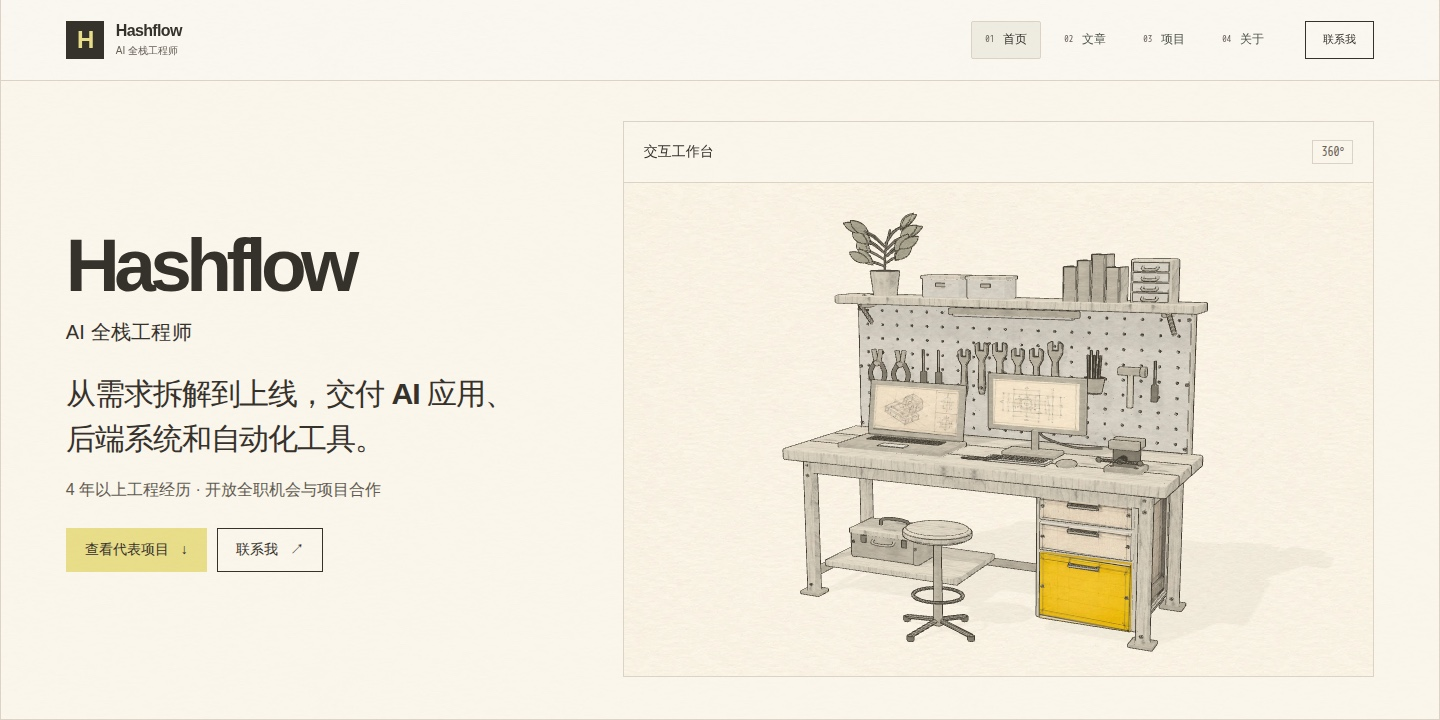
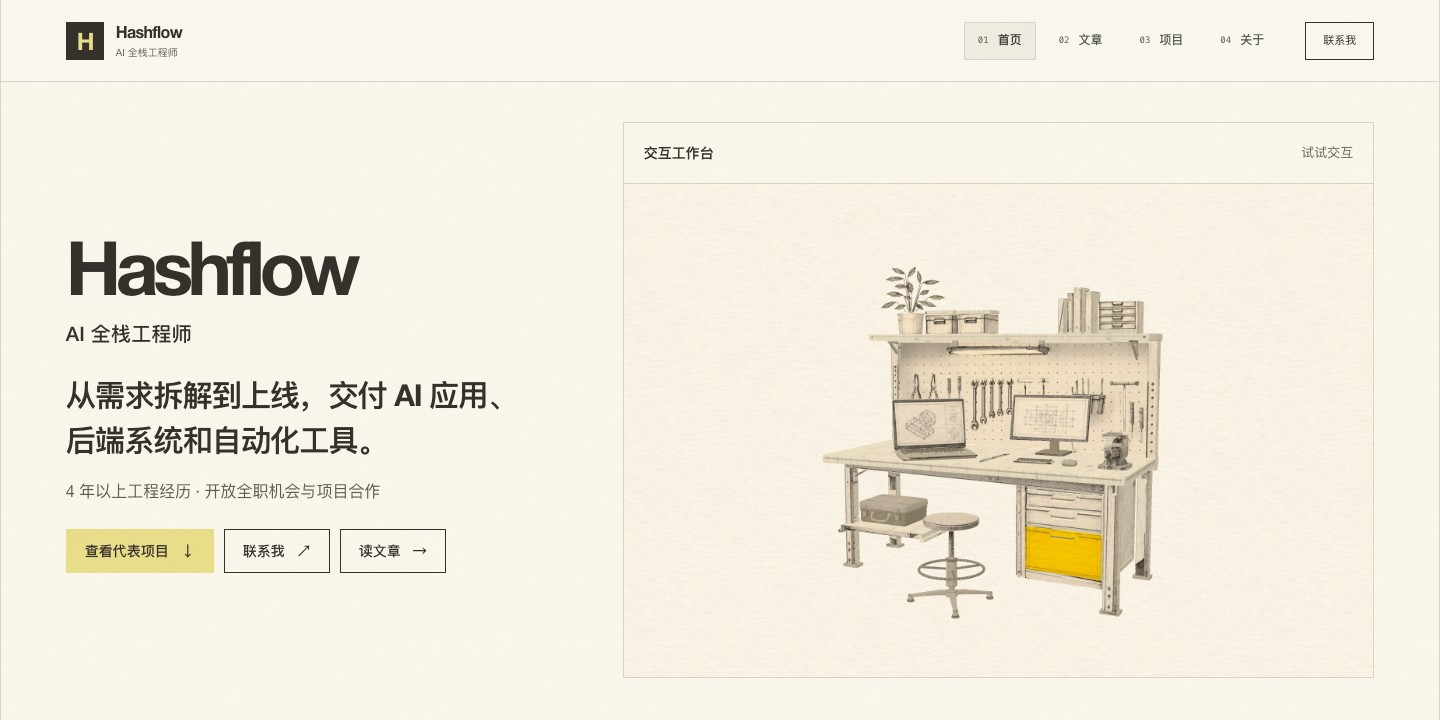
docs: update the Personal Blog project case

diff --git a/e2e/projects.spec.ts b/e2e/projects.spec.ts
@@ -54,14 +54,14 @@ test.describe("Projects", () => {
     await expect(page.getByText(STABLE_PROJECT.description)).toBeVisible();
     await expect(
       page.getByText(
-        "文章缺少必填字段时，静态站点构建失败，阻止不完整内容发布。",
+        "站点已在 GitHub Pages 上线，公开了两篇技术文章和一个项目案例。",
       ),
     ).toBeVisible();
     await expect(
-      page.getByRole("link", { name: "查看缺少字段时的构建校验测试" }),
+      page.getByRole("link", { name: "查看 GitHub Pages 部署记录" }),
     ).toHaveAttribute(
       "href",
-      /^https:\/\/github\.com\/HashFlowSY\/blog\/blob\/[a-f0-9]{40}\/src\/lib\/content-catalog\.spec\.ts#L\d+/,
+      /^https:\/\/github\.com\/HashFlowSY\/blog\/actions\/runs\/\d+$/,
     );
 
     const sourceLink = page.getByRole("link", { name: copy.source });

diff --git a/e2e/fixtures/index.ts b/e2e/fixtures/index.ts
@@ -26,7 +26,7 @@ const STABLE_PROJECT = {
   slug: "personal-blog",
   title: "Personal Blog",
   description:
-    "基于 Next.js 16 静态导出的中文个人作品站，包含类型安全的内容管线、CJK 阅读时间、标签感知推荐和完整测试验证。",
+    "Hashflow 的中文技术博客与作品集，包含手绘 3D 工作台、文章全文搜索和构建时 Markdown 渲染。",
 } as const;
 
 function routeForPost(slug: string = STABLE_POST.slug): string {

diff --git a/e2e/static-artifact.spec.ts b/e2e/static-artifact.spec.ts
@@ -109,8 +109,10 @@ const publishedFragments = [
     "/projects/personal-blog/",
     [
       "概述",
+      "首页交互工作台",
       "内容管线",
       "markdown-渲染与-xss-防护",
+      "文章检索",
       "cjk-阅读时间",
       "文章推荐",
       "中文单站与-seo",

diff --git a/content/projects/zh-CN/personal-blog.md b/content/projects/zh-CN/personal-blog.md
@@ -5,57 +5,65 @@ date: "2026-04-02"
 tags:
   - nextjs
   - typescript
-  - tailwindcss
-  - 中文博客
-  - static-site
+  - threejs
+  - shiki
   - github-pages
-description: "基于 Next.js 16 静态导出的中文个人作品站，包含类型安全的内容管线、CJK 阅读时间、标签感知推荐和完整测试验证。"
+  - tailwindcss
+description: "Hashflow 的中文技术博客与作品集，包含手绘 3D 工作台、文章全文搜索和构建时 Markdown 渲染。"
 cover: "/assets/personal-blog-home.jpg"
 source: "https://github.com/HashFlowSY/blog"
-demo: "https://hashflowsy.github.io/blog"
-role: "需求拆解、视觉重构、全栈开发"
-duration: "持续迭代"
-result: "文章缺少必填字段时，静态站点构建失败，阻止不完整内容发布。"
+demo: "https://hashflowsy.github.io/blog/"
+role: "站点设计与开发、内容构建、发布维护"
+duration: "2026 年 4 月至今"
+result: "站点已在 GitHub Pages 上线，公开了两篇技术文章和一个项目案例。"
 evidence:
-  label: "查看缺少字段时的构建校验测试"
-  url: "https://github.com/HashFlowSY/blog/blob/c6bc7508f82f14a59f924c3e814f31d027815e66/src/lib/content-catalog.spec.ts#L645-L681"
+  label: "查看 GitHub Pages 部署记录"
+  url: "https://github.com/HashFlowSY/blog/actions/runs/43431260684"
 featured: true
 draft: false
 ---
 
 ## 概述
 
-基于 Next.js 16 静态导出、部署至 GitHub Pages 的中文个人作品站。它把求职、项目合作和长期写作组织成一条清晰的浏览路径。核心特性包括原子化 Content Catalog、CJK 感知阅读时间、标签感知的文章推荐和完整自动化验证。
+我用这个站点发布技术写作、记录项目决策，并提供求职和项目合作的联系入口。项目详情展示我负责的工作、实际成果和公开证据。[技术写作](/posts/) · [关于与联系](/about/#contact)
+
+## 首页交互工作台
+
+首页先逐笔画出工作台，绘制完成后可以拖动旋转 360°。访客可以开关工作灯、拉出抽屉、打开工具箱，也可以转动台钳。触屏上先点「操作工作台」，再用单指旋转、双指缩放。WebGL 初始化失败时会保留二维成稿。
+
+二维成稿和 Three.js 模型共用几何、铅笔贴图和参考相机。拖动时切换到已经绘好的三维画面，回到初始视角且部件归位后重新显示成稿。[建模与贴图方案](https://github.com/HashFlowSY/blog/blob/44d8229/docs/design/workbench-assembly-plan.md) · [交互设计](https://github.com/HashFlowSY/blog/blob/44d8229/docs/design/workbench-interaction-design.md)
 
 ## 内容管线
 
-每次构建都会创建一个原子的 Content Catalog：统一发现文章和项目案例，解析 frontmatter，执行严格契约与跨文件校验，渲染 Markdown，并按稳定 slug 建立索引。页面、静态参数、RSS、sitemap 和元数据读取同一份不可变快照；任一内容出错时，构建会在生成部分站点前失败。详见 `src/lib/content-catalog.ts`。
+构建时，内容目录（Content Catalog）统一读取文章和项目的 Markdown 文件，校验 frontmatter、slug 和项目封面路径，再编译已发布的正文。页面、搜索索引、RSS 和站点地图从同一份内容快照读取数据。缺少必填字段或出现重复 slug 时，内容目录会汇总错误并中止构建。[内容目录实现](https://github.com/HashFlowSY/blog/blob/44d8229/src/lib/content-catalog.ts)
 
 ## Markdown 渲染与 XSS 防护
 
-文章和项目案例共用一个 Markdown 编译器。它只解析一次正文，丢弃原始 HTML，按白名单净化元素、属性和链接，再从同一棵树生成目录、搜索片段和阅读统计。正文在构建时转成 React 元素。
+文章和项目案例共用 Markdown 编译器，支持 GFM 表格、任务列表和脚注。编译器忽略原始 HTML，按白名单过滤元素、属性和链接。正文、目录、搜索片段和阅读统计都来自处理后的正文树。
 
-Shiki 在构建时给代码分词和配色。代码围栏可以用 `{1,3-5}` 标出重点行，超出实际行数会报出源文件位置。复制按钮使用代码节点的原文，保留空行、Tab 和行尾空格。
+Shiki 在构建时给代码配色。代码围栏可以用 `{1,3-5}` 标出重点行，行号越界或语言无法识别时，构建会报告源文件位置。复制按钮使用代码原文，保留空行、Tab 和行尾空格。[Markdown 编译器](https://github.com/HashFlowSY/blog/blob/44d8229/src/lib/markdown/compile.ts)
+
+## 文章检索
+
+文章列表支持主题筛选和关键词搜索。关键词可以匹配标题、摘要、标签和正文。关键词只命中正文时，会显示命中片段。浏览器在首次关键词搜索时加载构建生成的静态索引。[打开文章列表](/posts/)
 
 ## CJK 阅读时间
 
-文章详情分别显示字数、词数和预计阅读时长，列表卡片显示预计时长。以正文可读文字为准，块级代码可搜索但不计入估时。估算参数为每分钟 500 个 CJK 字符、200 个其他词。
+文章详情显示目录、阅读进度、字词数和预计阅读时长，列表卡片也显示预计时长。估算按每分钟 500 个中日韩文字字符或 200 个其他词计算。代码块进入搜索索引，阅读统计从可读正文中取数。
 
 ## 文章推荐
 
-文章详情最多推荐三篇其他文章。有共同标签时依次按共同标签数、发布时间距离、日期和 slug 排序。没有共同标签时显示“最新文章”。
+文章详情最多推荐三篇其他文章。有共同标签时先比较共同标签数，再比较发布日期的距离。找不到共同标签时显示最新文章。[推荐规则](https://github.com/HashFlowSY/blog/blob/44d8229/src/lib/related-reading.ts)
 
 ## 中文单站与 SEO
 
-项目已经移除多语言路由和翻译文件，页面只保留中文路径。SEO 基础设施包括：自动生成中文站点 sitemap、RSS feed 和 canonical URL。canonical、RSS 与 sitemap 会在构建时按 `NEXT_PUBLIC_SITE_URL` 和 `BASE_PATH` 写入静态产物；每个部署目标都必须使用最终 origin 和 base path 重新构建，不能在 localhost、预览和生产环境之间复用同一份产物。
+站点以中文发布，文章和项目路径分别从 `/posts/` 和 `/projects/` 开始。Next.js 16 静态导出页面、RSS 和站点地图，构建时按目标域名与 `/blog` 部署前缀生成 canonical 地址和资源链接。部署地址变化时重新构建。[RSS](/feed.xml) · [站点地图](/sitemap.xml)
 
 ## 测试与 CI
 
-单元测试使用 Vitest 和 Testing Library，浏览器验收使用 Playwright。静态样例覆盖代码高亮、剪贴板、脚注跳转、搜索和本地图片路径；真实页面检查目录、回顶、窄屏术语表及发布链接。本地通过 Husky 和 lint-staged 在提交时运行 ESLint 和 Prettier。
+GitHub Actions 先运行 ESLint、TypeScript 类型检查、Vitest 覆盖率、依赖审计和开发服务器上的 Chromium 测试。Next.js 导出 `out/` 后，再用 Playwright 检查待发布文件，覆盖 Chromium 页面交互、axe 无障碍、Linux 截图比对和 WebKit 冒烟测试。通过后部署同一份产物。[发布工作流](https://github.com/HashFlowSY/blog/blob/44d8229/.github/workflows/deploy.yml)
 
 ## 设计取舍
 
-- **静态导出 vs SSR**：零成本部署到 GitHub Pages，代价是没有服务端运行时——RSS 在构建时生成。
-- **Markdown 中不支持 React 组件**：刻意收窄渲染面以消除 XSS 攻击面，白名单按最小权限原则设计。
-- **构建时高亮**：浏览器接收已上色的代码和一个复制按钮。Shiki 和语法包只在服务端使用。
-- **统一暖白工程台界面**：全站使用同一套排版、网格、颜色和交互反馈，让项目、文章与个人信息保持一致。
+- **静态托管。** GitHub Pages 直接提供 HTML 和资源文件。文章、搜索索引和 RSS 随每次发布更新。[静态站点决策](https://github.com/HashFlowSY/blog/blob/44d8229/docs/adr/0001-keep-the-site-chinese-only-and-static.md)
+- **稳定链接。** 公开地址由显式 slug 决定，调整文件名或文章标题时可以保留原有链接。[slug 约定](https://github.com/HashFlowSY/blog/blob/44d8229/docs/adr/0003-use-explicit-stable-slugs.md)
